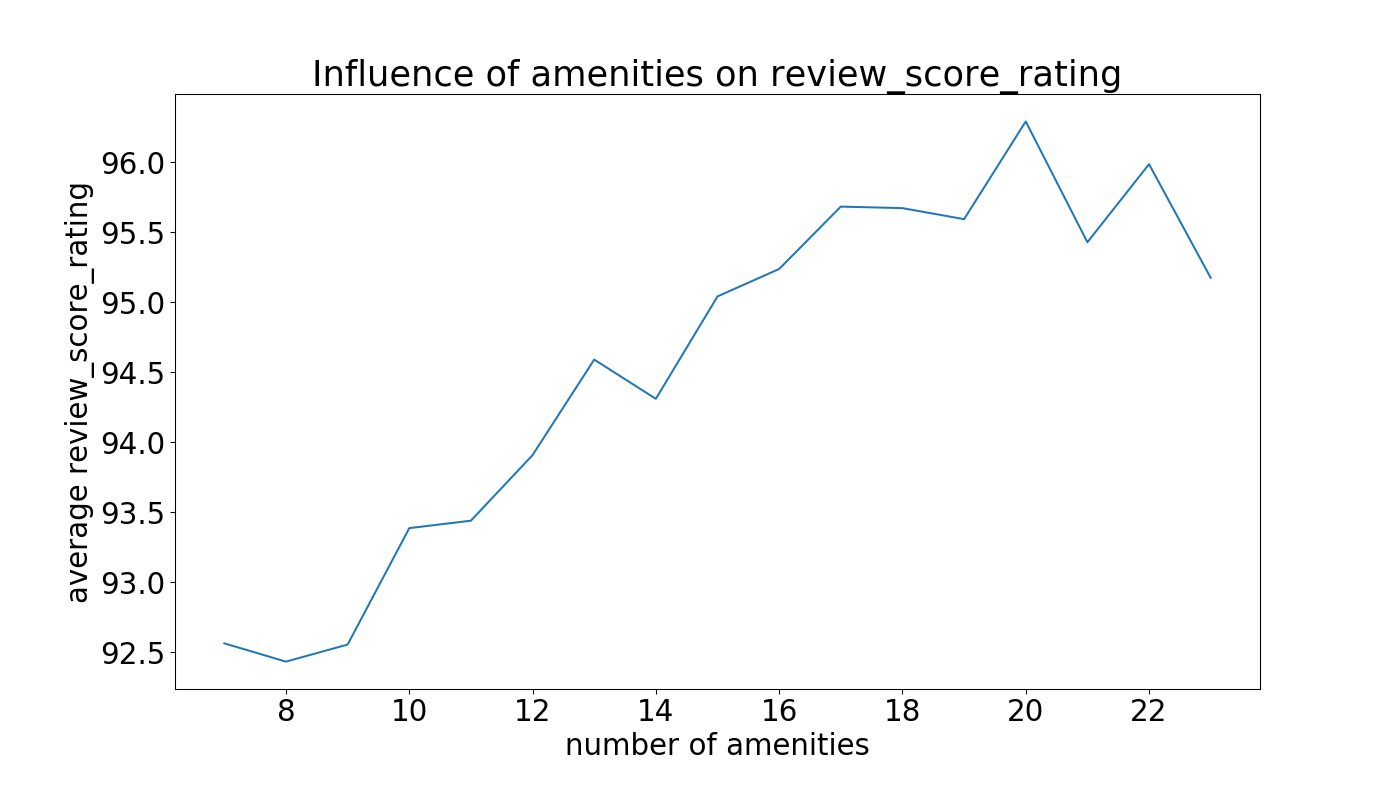
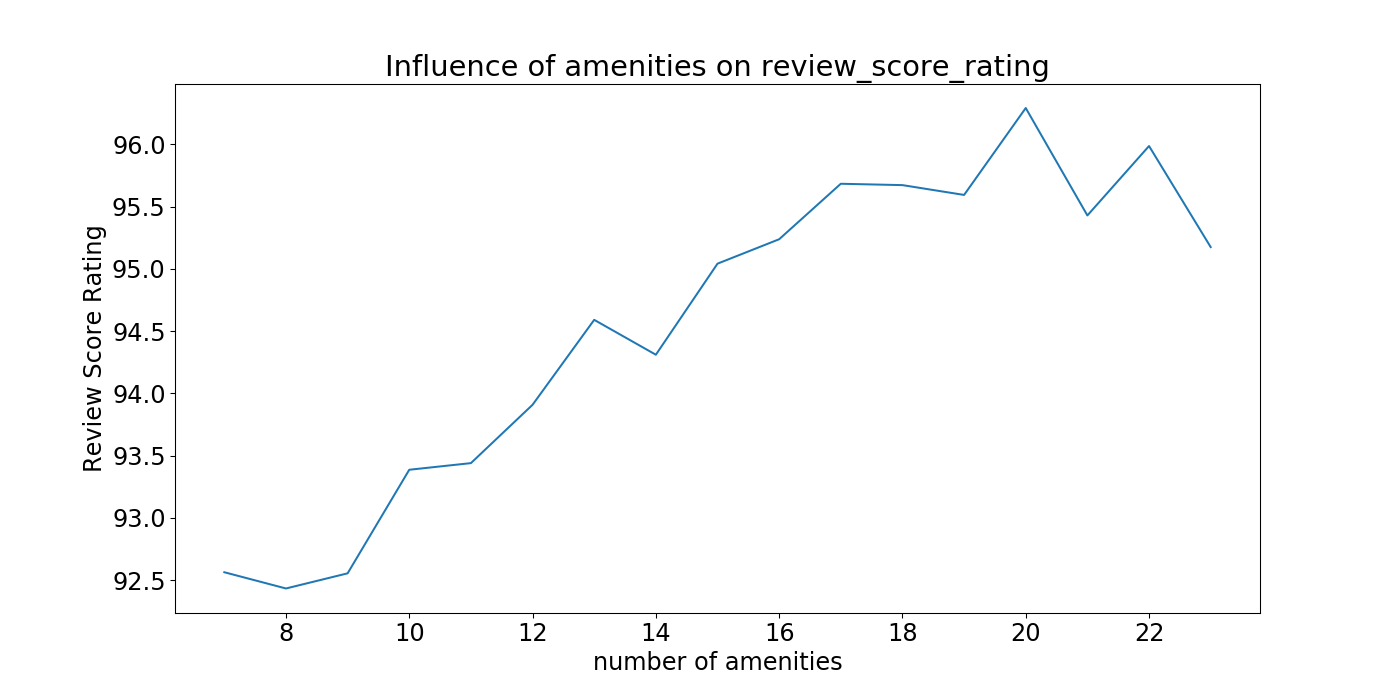
final upload from local

diff --git a/airbnb_proj.py b/airbnb_proj.py
@@ -12,7 +12,7 @@ import calendar
 #import re
 import seaborn as sns
 import matplotlib.pyplot as plt
-plt.rcParams.update({'font.size': 22})
+plt.rcParams.update({'font.size': 18})
 
 #from sklearn.preprocessing import StandardScaler
 #from sklearn.model_selection import train_test_split, GridSearchCV
@@ -91,8 +91,8 @@ def get_avg_price_per_month():
     monthly_mean.index = pd.CategoricalIndex(monthly_mean.index,
                                              categories=cats, ordered=True)
     monthly_mean = monthly_mean.sort_index()
-    plt.figure(figsize=(1400/96, 787/96), dpi=96)
-    ax = monthly_mean.plot.bar(title = 'Seattle Average AirBnB prices per month',
+    plt.figure(figsize=(1400/96, 900/96), dpi=96)
+    ax = monthly_mean.plot.bar(title = 'Seattle Average Airbnb prices per month (2016)',
                                color = 'gray')
     ax.set_ylabel('Price in $')
     plt.savefig('cost_per_month.png')
@@ -170,19 +170,19 @@ def get_host_review_corr():
 
       
     # Plotting
-    plt.figure(figsize=(1400/96, 787/96), dpi=96)    
-    title = 'Comparison of mean review scores for feature: ' + top_1
+    plt.figure(figsize=(1400/96, 850/96), dpi=96)    
+    title = 'Mean review scores for feature: ' + top_1
     ax1 = top1_means.plot.bar(title = title)
     ax1.set_ylim(bottom = 80, top = 100)
-    ax1.set_ylabel('review_scores_rating')
+    ax1.set_ylabel('Review Score Rating')
     plt.savefig('rev_scores_superhost.png')
     
-    plt.figure(figsize=(1400/96, 787/96), dpi=96)
-    title = 'Comparison of mean review scores for feature: ' + top_2
+    plt.figure(figsize=(1400/96, 850/96), dpi=96)
+    title = 'Mean review scores for feature: ' + top_2
     ax2 = top2_means.plot.bar(title = title)
     ax2.set_ylim(bottom = 80, top = 100)
-    ax2.set_ylabel('review_scores_rating')
-    plt.savefig('rev_scores_host_about')
+    ax2.set_ylabel('Review Score Rating')
+    plt.savefig('rev_scores_host_about.png')
   
     return top_2_corr, top_1, top_2
 
@@ -238,12 +238,18 @@ def additional_parameters():
     # 1.3 What is the best neighborhood to have an apartment ?
     col = 'neighbourhood_group_cleansed'
     best_neighborhoods = new_df.groupby(col)['review_scores_rating'].mean()
+    best_neighborhoods.rename(index={'Other neighborhoods':'Other',
+                                       'University District': 'Univ. District'},
+                                        inplace=True)
     
-    plt.figure(figsize=(1400/96, 787/96), dpi=96)
+    
+    plt.figure(figsize=(1400/96, 1400/96), dpi=96)
     title = 'Best Neighbourhoods by Review Score Rating'
     ax_nbh = best_neighborhoods.plot.bar(title = title, color = 'blue')
     ax_nbh.set_ylabel('Review Score Rating')
-    ax_nbh.set_ylim(bottom = 80, top = 100)
+    ax_nbh.set_ylim(bottom = 85, top = 100)
+    plt.xticks(rotation = 45, ha = 'right')
+    
     plt.savefig('neighbourhoods_rev_score.png')
     
     
@@ -253,7 +259,7 @@ def additional_parameters():
     count_amenities = new_df.groupby('amenities')['review_scores_rating'].count()
     
     # Evaluation / Visualization
-    plt.figure(figsize=(1400/96, 787/96), dpi=96)
+    plt.figure(figsize=(1400/96, 700/96), dpi=96)
     ax_amen_count = count_amenities.plot.bar(color = 'black')
     ax_amen_count.set_ylabel('Number of samples')
     plt.savefig('sample_size_amenities.png')
@@ -265,9 +271,9 @@ def additional_parameters():
     filter_df = new_df[new_df['amenities'].isin(filter_counts)]
     min_amenities = filter_df.groupby('amenities')['review_scores_rating'].mean()
     
-    plt.figure(figsize=(1400/96, 787/96), dpi=96)
+    plt.figure(figsize=(1400/96, 700/96), dpi=96)
     ax_amen = min_amenities.plot(title = 'Influence of amenities on review_score_rating')
-    ax_amen.set_ylabel('average review_score_rating')
+    ax_amen.set_ylabel('Review Score Rating')
     ax_amen.set_xlabel('number of amenities')
     plt.savefig('numberAmenities_vs_rev_score.png')
     
